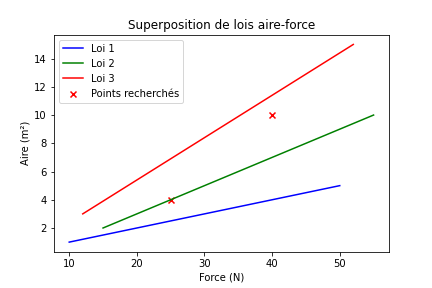
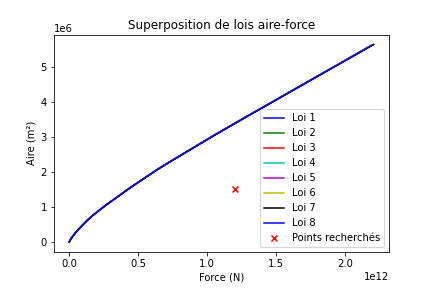
nouvelle affichage

diff --git a/genetique.py b/genetique.py
@@ -176,23 +176,20 @@ def genetique(points, limite=None):
     None.
 
     """
-    N = 50  # Taille de la population
+    N = 10  # Taille de la population
     population = creer_population(N)
+    liste_courbes = []
     for i in range(100):  # On fait 100 generations
-        print('fdjkl')
         population = nouvelle_generation(population, points)
-        print('rgfidskodf')
         mutation(population)
-        print("icicicici")
         meilleur_individu = selection(population, points)[0]
         print(score(meilleur_individu, points))
         aires, forces = Algo_direct_v2.loi_totale(meilleur_individu.get_rayons_courbure(),
                                                   meilleur_individu.get_hauteurs())
-        affichage.superposer_lois([(aires,forces)], points=points)
-    affichage.loi(aires, forces)
+        liste_courbes.append((aires,forces))
+        affichage.superposer_lois(liste_courbes, points=points)
     affichage.hauteur(meilleur_individu.get_hauteurs())
 
 
 if __name__ == "__main__":
-    print('djk')
-    genetique([(0.0215*10**14, 1.5), (0.0243*10**14, 5.1)])
+    genetique([(0.0120*10**14, 1.5*10**6)])

diff --git a/affichage.py b/affichage.py
@@ -85,7 +85,7 @@ def loi(aires, forces):
     plt.show()
 
 
-def superposer_lois(*listes, points=None):
+def superposer_lois(listes, points=None):
     """
     Superpose différentes lois aire-force sur un même graphique, avec des
     points particuliers.
@@ -105,13 +105,9 @@ def superposer_lois(*listes, points=None):
 
     """
     couleurs = ['b', 'g', 'r', 'c', 'm', 'y', 'k']  # Liste de couleurs distinctives
-    if len(listes) == 1:  # Vérification pour un seul tuple dans listes
-        aires, forces = listes[0][0]  # Déballage du seul tuple
-        plt.plot(forces, aires, label='Loi 1', color='b')  # Par exemple, utilisez une couleur spécifique
-
-    else:
-        for i, (aires, forces) in enumerate(listes):
-            plt.plot(forces, aires, label=f'Loi {i + 1}', color=couleurs[i % len(couleurs)])
+    for i in range(len(listes)):
+        aires, forces = listes[i]
+        plt.plot(forces, aires, label=f'Loi {i + 1}', color=couleurs[i % len(couleurs)])
 
     if points:
         points_forces, points_aires = zip(*points)

diff --git a/Algo_direct_v2.py b/Algo_direct_v2.py
@@ -61,7 +61,7 @@ def loi_totale(rayons_courbure, hauteurs):
         Valeurs des forces.
 
     """
-    N = 100000 # Nombre de points
+    N = 10000 # Nombre de points
     aires_totales = [0 for i in range(N)]  # Liste des aires
     forces_totales = [0 for i in range(N)]  # Liste des forces
     hauteur_max = np.max(hauteurs)  # Donne la hauteur la plus elevee
@@ -102,10 +102,9 @@ def get_aire_totale(rayons_courbure, hauteurs, force):
     for i in range(len(forces_totales)):
         if round(forces_totales[i]/10**9) == round(force/10**9):  # Si on a la bonne force
             aire = aires_totales[i]
-            print('rek' + str(round(forces_totales[i]/10**9)))
             return aire
         # Si on a pas la bonne valeur
-        return aires_totales[-1]
+    return aires_totales[-1]
 
 
 if __name__ == "__main__":
